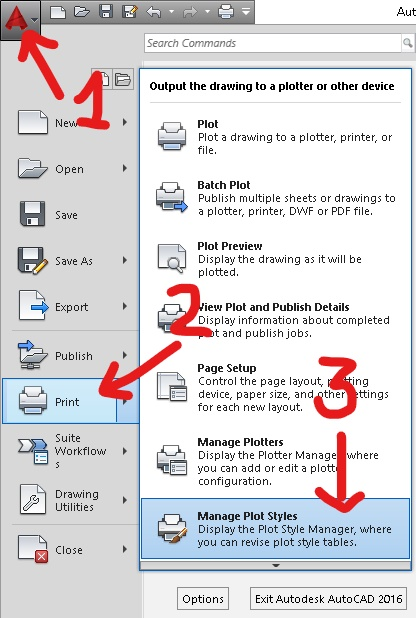
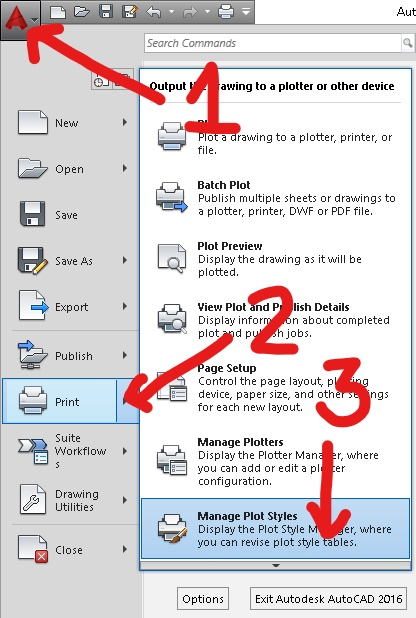
imagem pasta ctb

diff --git a/plot/plotModel.md b/plot/plotModel.md
@@ -87,7 +87,7 @@ Os ajustes do arquivo CTB prevalecem sobre as configurações de objeto e de Lay
 Para o Autocad ler o arquivo CTB ele precisa estar no diretório configurado. Para abrir a pasta do CTB:
 
 1. clique no Ícone **A** na parte supeior esqueda da tela;
-2. clique na opção **print**
+2. clique na opção seta ao lado da opção **print**
 3. clique na opção **Manage Plot Styles**
 
 <hr>
